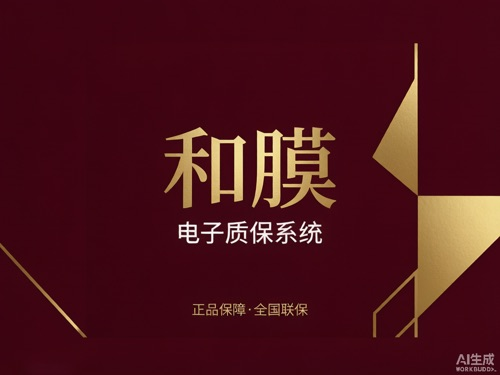
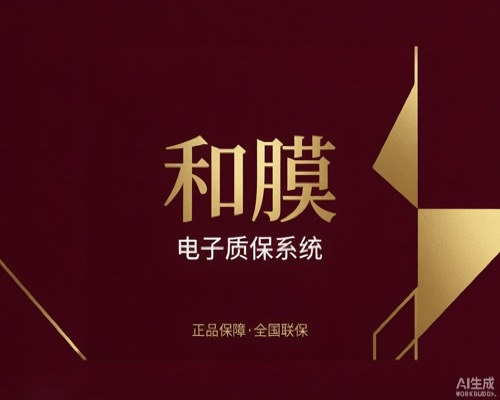
fix(miniprogram): 分享缩略图改用本地临时文件路径 + 调整为5:4比例

diff --git a/miniprogram/app.js b/miniprogram/app.js
@@ -35,9 +35,23 @@ App({
       menus: ['shareAppMessage', 'shareTimeline']
     });
 
+    // 把代码包里的分享缩略图复制到本地临时路径。
+    // 预览/真机下直接用代码包路径 `/images/share.jpg` 偶尔加载失败导致裂图，
+    // 复制到 wx.env.USER_DATA_PATH 后作为临时文件路径使用更稳。
+    const fs = wx.getFileSystemManager();
+    const localSharePath = `${wx.env.USER_DATA_PATH}/share.jpg`;
+    try {
+      fs.copyFileSync('/images/share.jpg', localSharePath);
+      this.globalData.shareImageUrl = localSharePath;
+    } catch (err) {
+      console.error('复制分享缩略图失败', err);
+      this.globalData.shareImageUrl = '/images/share.jpg';
+    }
+
     // 全局注入默认分享：微信只在 Page 上识别 onShareAppMessage/onShareTimeline，
     // App 上同名方法无效，因此重写 Page 构造函数给未定义分享的页面补默认值。
     const originalPage = Page;
+    const app = this;
     const defaultShare = {
       title: '和膜电子质保 — 正品保障·全国联保',
       imageUrl: '/images/share.jpg'
@@ -48,7 +62,7 @@ App({
           return {
             title: defaultShare.title,
             path: '/pages/owner/query/index',
-            imageUrl: defaultShare.imageUrl
+            imageUrl: app.globalData.shareImageUrl || defaultShare.imageUrl
           };
         };
       }
@@ -57,7 +71,7 @@ App({
           return {
             title: defaultShare.title,
             query: '',
-            imageUrl: defaultShare.imageUrl
+            imageUrl: app.globalData.shareImageUrl || defaultShare.imageUrl
           };
         };
       }
@@ -84,7 +98,9 @@ App({
     /** 状态栏高度 */
     statusBarHeight: 0,
     /** 底部安全区域高度 */
-    safeAreaBottom: 0
+    safeAreaBottom: 0,
+    /** 分享缩略图本地临时路径 */
+    shareImageUrl: ''
   },
 
   /**
